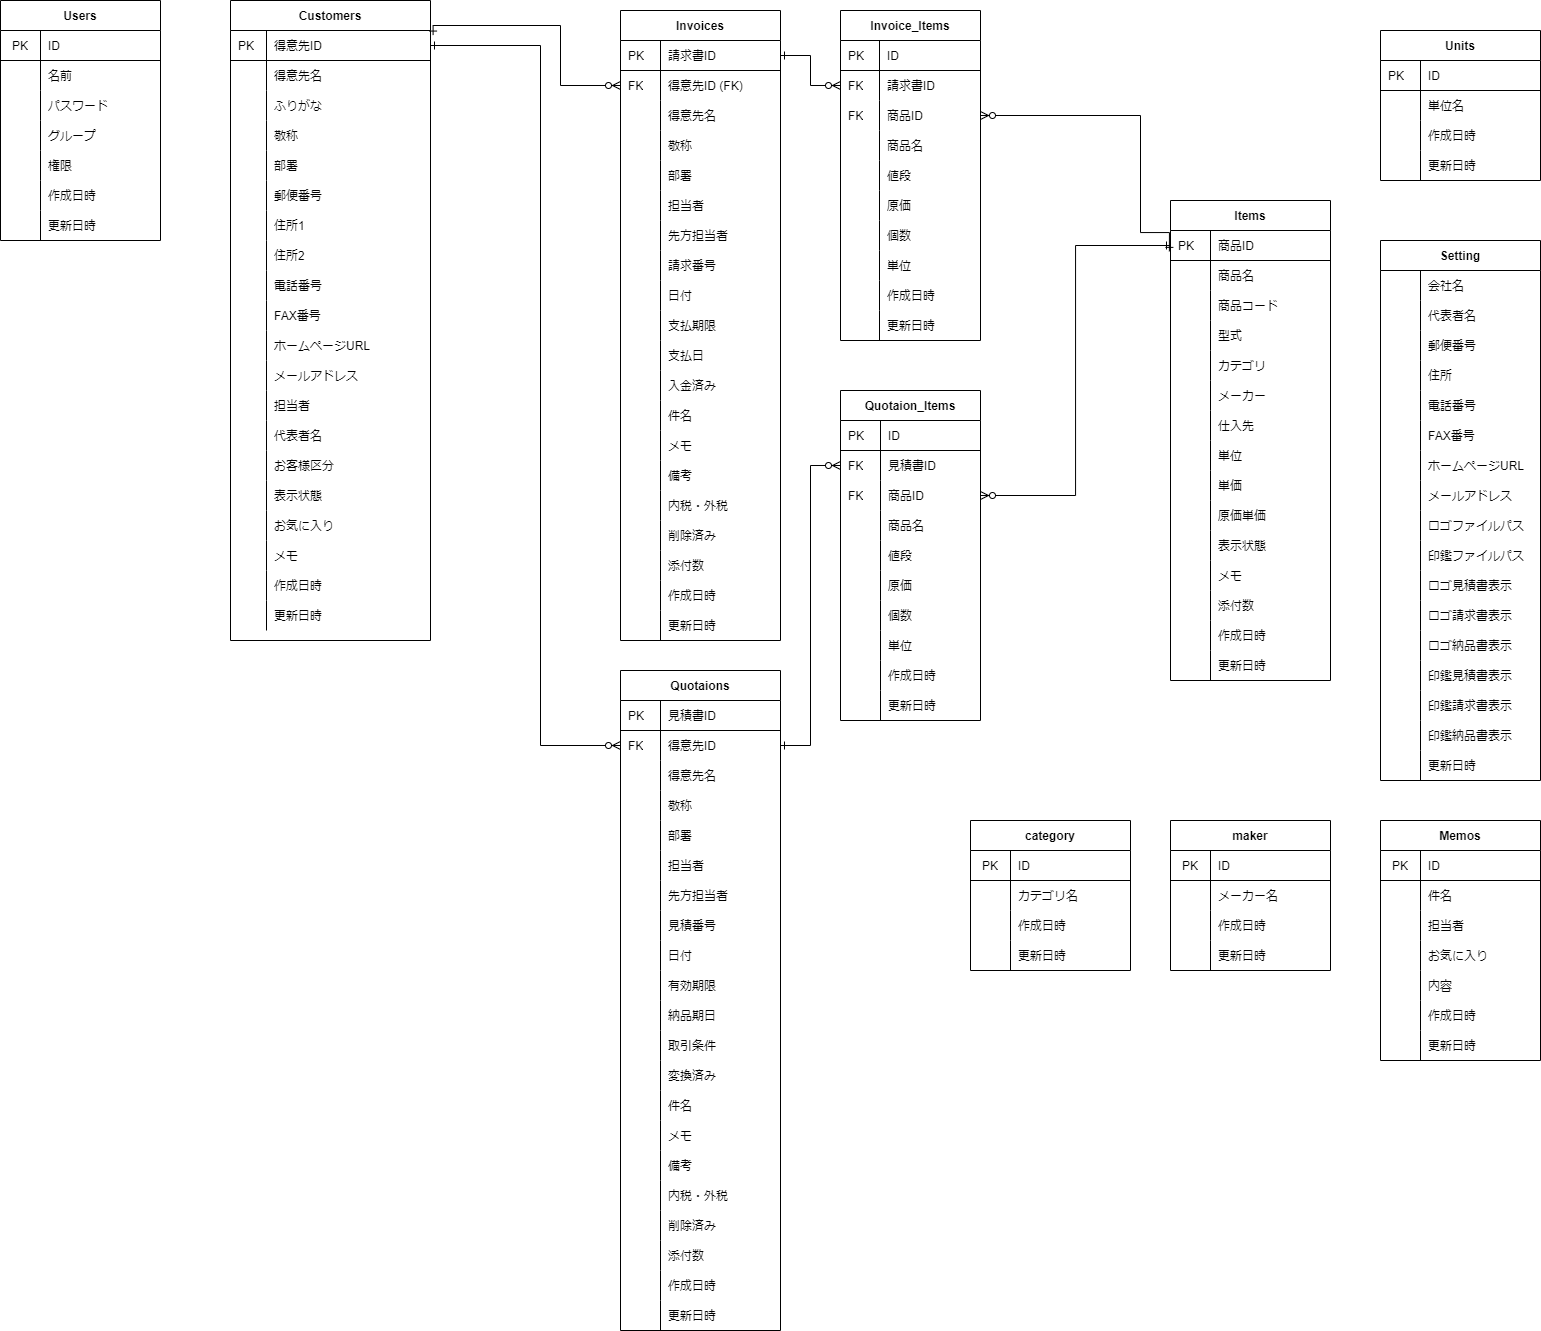
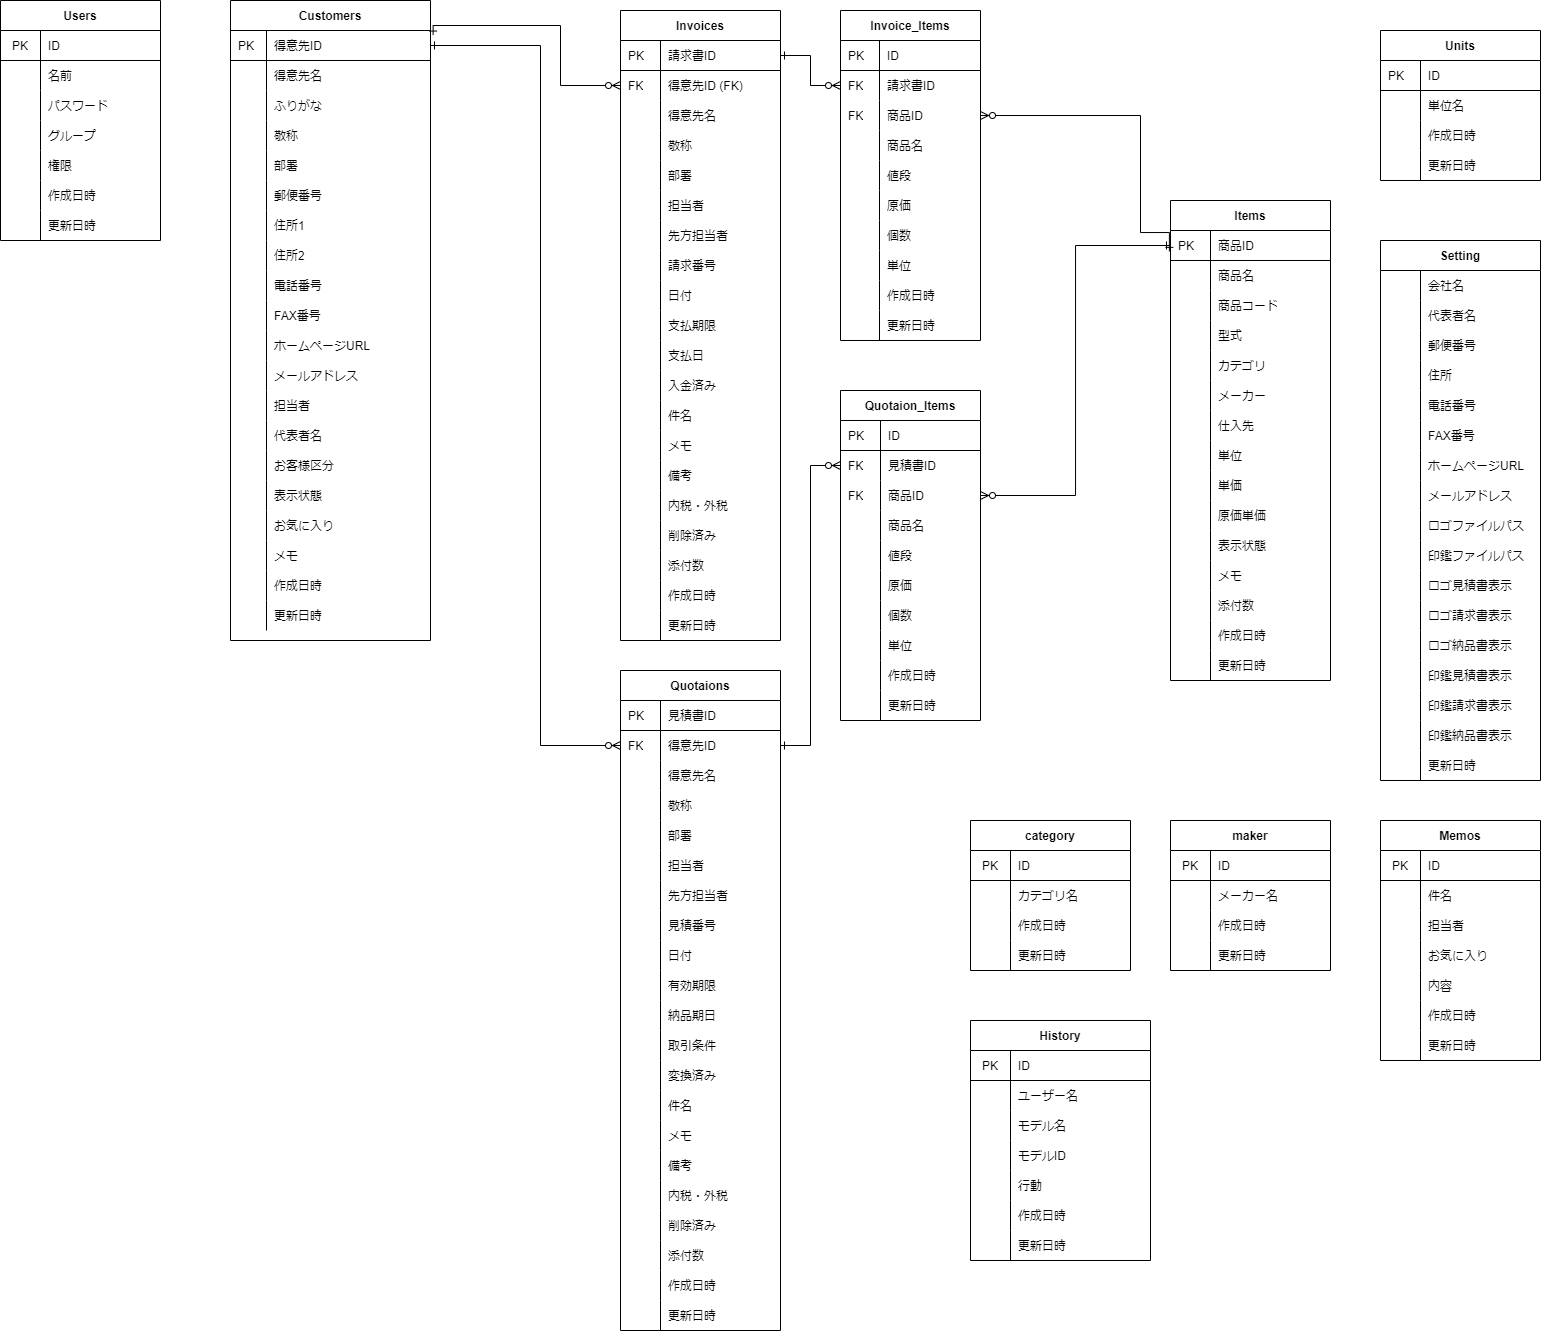
履歴テーブルの作成

diff --git a/app/models.py b/app/models.py
@@ -261,6 +261,18 @@ class Maker(db.Model):
                           default=datetime.now, onupdate=datetime.now)
 
 
+class History(db.Model):
+    __tablename__ = 'history'
+    id = db.Column(db.Integer, primary_key=True)
+    userName = db.Column(db.String)
+    modelName = db.Column(db.String)
+    modelId = db.Column(db.Integer)
+    action = db.Column(db.String)
+    createdAt = db.Column(db.DateTime, nullable=False, default=datetime.now)
+    updatedAt = db.Column(db.DateTime, nullable=False,
+                          default=datetime.now, onupdate=datetime.now)
+
+
 class Setting(db.Model):
 
     __tablename__ = 'settings'
@@ -351,6 +363,11 @@ class CategorySchema(ma.SQLAlchemyAutoSchema):
 class MakerSchema(ma.SQLAlchemyAutoSchema):
     class Meta:
         model = Maker
+
+
+class HistorySchema(ma.SQLAlchemyAutoSchema):
+    class Meta:
+        model = History
 
 
 class SettingSchema(ma.SQLAlchemyAutoSchema):

diff --git a/app/seeder.py b/app/seeder.py
@@ -204,6 +204,20 @@ def seeder():
     for maker in makers:
         print(maker.makerName)
 
+    # -----History-----
+    print('----History----')
+    history = [
+        History(id=1, userName='tanaka_taro', modelName='Customer',modelId=1,action='GET',),
+        History(id=2, userName='suzuki_jiro', modelName='Item',modelId=2,action='POST',),
+        History(id=3, userName='satou_saburo', modelName='Invoice',modelId=3,action='DELETE',),
+    ]
+    db.session.add_all(history)
+    db.session.commit()
+
+    histories = History.query.all()
+    for history in histories:
+        print(history.userName)
+
     # -----Setting-----
     print('----Setting----')
     setting = [

diff --git a/models.md b/models.md
@@ -195,6 +195,22 @@
 | createdAt    | 作成日時   | datetime |      | 
 | updatedAt    | 更新日時   | datetime |      |
 
+<br>
+
+## History
+
+| 項目名    | 和名       | タイプ   | 備考                             | 
+| --------- | ---------- | -------- | -------------------------------- | 
+| id        | id         | integer  |                                  | 
+| userName  | ユーザー名 | string   | user.name                        | 
+| modelName | モデル名   | string   | どのモデルに参照・変更を加えたか | 
+| modelId   | モデルID   | integer  | どのIDに参照・変更を加えたか     | 
+| action    | 行動       | string   | GET,POST,PUT,DELETE,LOGIN,LOGOUT | 
+| createdAt | 作成日時   | datetime |                                  | 
+| updatedAt | 更新日時   | datetime |                                  | 
+
+<br>
+
 ## Setting
 
 | 項目名                   | 和名             | タイプ       | 備考                     | 
